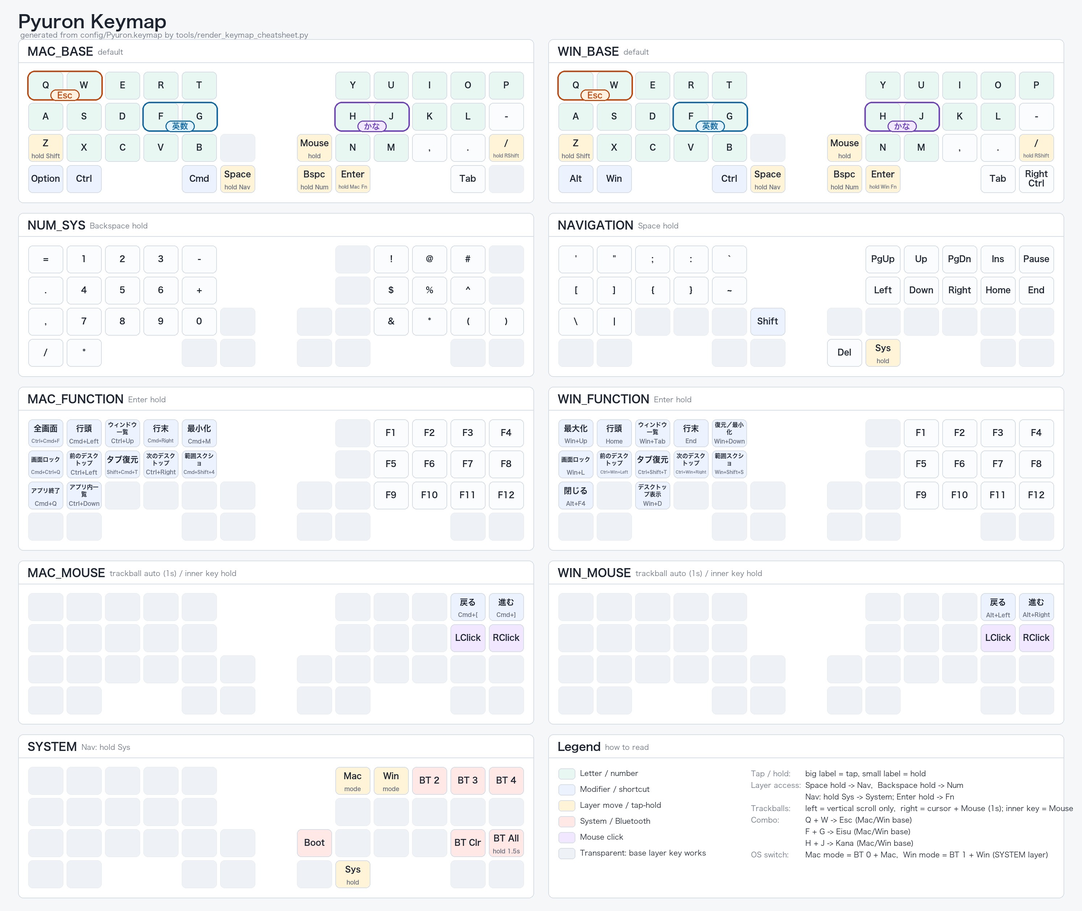
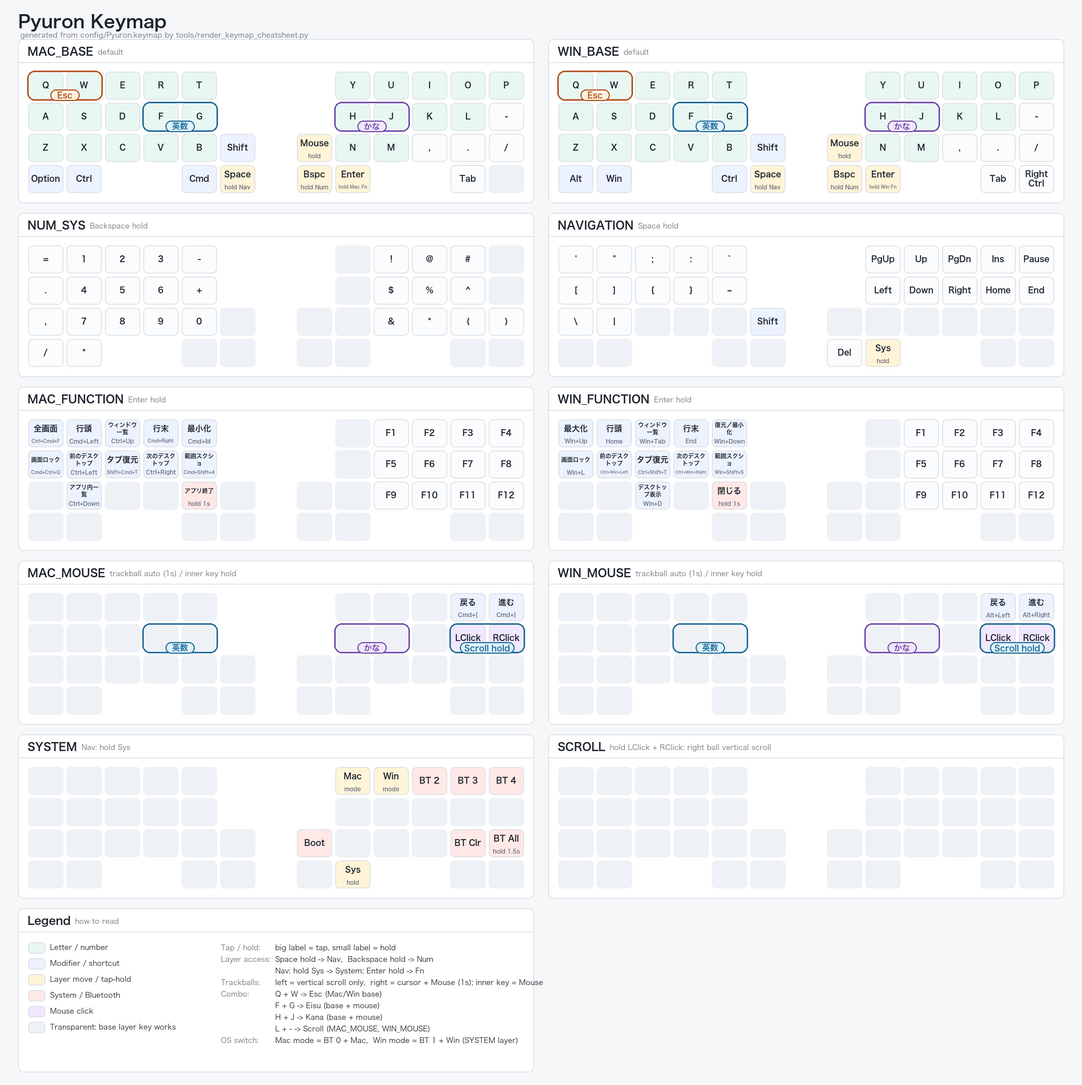
feat: stabilize mouse holds and add click-combo scrolling

diff --git a/docs/keymap-cheatsheet.html b/docs/keymap-cheatsheet.html
@@ -430,8 +430,8 @@
       <h1>Pyuron Keymap</h1>
       <div class="meta">
         <span class="pill">40 keys</span>
-        <span class="pill">9 layers</span>
-        <span class="pill">combo Q + W -> Esc (MAC_BASE, WIN_BASE), F + G -> Eisu (MAC_BASE, WIN_BASE), H + J -> Kana (MAC_BASE, WIN_BASE)</span>
+        <span class="pill">10 layers</span>
+        <span class="pill">combo Q + W -> Esc (MAC_BASE, WIN_BASE), F + G -> Eisu (base + mouse), H + J -> Kana (base + mouse), L + - -> Scroll (MAC_MOUSE, WIN_MOUSE)</span>
       </div>
     </header>
 
@@ -467,7 +467,7 @@
     // Do not hand-edit positions/layers below; re-run the script instead.
     const positions = [{"row": 0, "col": 0, "x": 0, "y": 0}, {"row": 0, "col": 1, "x": 1, "y": 0}, {"row": 0, "col": 2, "x": 2, "y": 0}, {"row": 0, "col": 3, "x": 3, "y": 0}, {"row": 0, "col": 4, "x": 4, "y": 0}, {"row": 0, "col": 5, "x": 8, "y": 0}, {"row": 0, "col": 6, "x": 9, "y": 0}, {"row": 0, "col": 7, "x": 10, "y": 0}, {"row": 0, "col": 8, "x": 11, "y": 0}, {"row": 0, "col": 9, "x": 12, "y": 0}, {"row": 1, "col": 0, "x": 0, "y": 1}, {"row": 1, "col": 1, "x": 1, "y": 1}, {"row": 1, "col": 2, "x": 2, "y": 1}, {"row": 1, "col": 3, "x": 3, "y": 1}, {"row": 1, "col": 4, "x": 4, "y": 1}, {"row": 1, "col": 5, "x": 8, "y": 1}, {"row": 1, "col": 6, "x": 9, "y": 1}, {"row": 1, "col": 7, "x": 10, "y": 1}, {"row": 1, "col": 8, "x": 11, "y": 1}, {"row": 1, "col": 9, "x": 12, "y": 1}, {"row": 2, "col": 0, "x": 0, "y": 2}, {"row": 2, "col": 1, "x": 1, "y": 2}, {"row": 2, "col": 2, "x": 2, "y": 2}, {"row": 2, "col": 3, "x": 3, "y": 2}, {"row": 2, "col": 4, "x": 4, "y": 2}, {"row": 2, "col": 5, "x": 5, "y": 2}, {"row": 2, "col": 6, "x": 7, "y": 2}, {"row": 2, "col": 7, "x": 8, "y": 2}, {"row": 2, "col": 8, "x": 9, "y": 2}, {"row": 2, "col": 9, "x": 10, "y": 2}, {"row": 3, "col": 0, "x": 11, "y": 2}, {"row": 3, "col": 1, "x": 12, "y": 2}, {"row": 3, "col": 2, "x": 0, "y": 3}, {"row": 3, "col": 3, "x": 1, "y": 3}, {"row": 3, "col": 4, "x": 4, "y": 3}, {"row": 3, "col": 5, "x": 5, "y": 3}, {"row": 3, "col": 6, "x": 7, "y": 3}, {"row": 3, "col": 7, "x": 8, "y": 3}, {"row": 3, "col": 8, "x": 11, "y": 3}, {"row": 3, "col": 9, "x": 12, "y": 3}];
 
-    const layers = [{"name": "MAC_BASE", "group": "mac", "note": "default", "keys": [["Q", "", "letter"], ["W", "", "letter"], ["E", "", "letter"], ["R", "", "letter"], ["T", "", "letter"], ["Y", "", "letter"], ["U", "", "letter"], ["I", "", "letter"], ["O", "", "letter"], ["P", "", "letter"], ["A", "", "letter"], ["S", "", "letter"], ["D", "", "letter"], ["F", "", "letter"], ["G", "", "letter"], ["H", "", "letter"], ["J", "", "letter"], ["K", "", "letter"], ["L", "", "letter"], ["-", "", ""], ["Z", "hold Shift", "layer"], ["X", "", "letter"], ["C", "", "letter"], ["V", "", "letter"], ["B", "", "letter"], ["trns", "", "transparent"], ["Mouse", "hold", "layer"], ["N", "", "letter"], ["M", "", "letter"], [",", "", ""], [".", "", ""], ["/", "hold RShift", "layer"], ["Option", "", "mod"], ["Ctrl", "", "mod"], ["Cmd", "", "mod"], ["Space", "hold Nav", "layer"], ["Bspc", "hold Num", "layer"], ["Enter", "hold Mac Fn", "layer"], ["Tab", "", ""], ["trns", "", "transparent"]]}, {"name": "WIN_BASE", "group": "win", "note": "default", "keys": [["Q", "", "letter"], ["W", "", "letter"], ["E", "", "letter"], ["R", "", "letter"], ["T", "", "letter"], ["Y", "", "letter"], ["U", "", "letter"], ["I", "", "letter"], ["O", "", "letter"], ["P", "", "letter"], ["A", "", "letter"], ["S", "", "letter"], ["D", "", "letter"], ["F", "", "letter"], ["G", "", "letter"], ["H", "", "letter"], ["J", "", "letter"], ["K", "", "letter"], ["L", "", "letter"], ["-", "", ""], ["Z", "hold Shift", "layer"], ["X", "", "letter"], ["C", "", "letter"], ["V", "", "letter"], ["B", "", "letter"], ["trns", "", "transparent"], ["Mouse", "hold", "layer"], ["N", "", "letter"], ["M", "", "letter"], [",", "", ""], [".", "", ""], ["/", "hold RShift", "layer"], ["Alt", "", "mod"], ["Win", "", "mod"], ["Ctrl", "", "mod"], ["Space", "hold Nav", "layer"], ["Bspc", "hold Num", "layer"], ["Enter", "hold Win Fn", "layer"], ["Tab", "", ""], ["Right Ctrl", "", ""]]}, {"name": "NUM_SYS", "group": "utility", "note": "Backspace hold", "keys": [["=", "", ""], ["1", "", ""], ["2", "", ""], ["3", "", ""], ["-", "", ""], ["trns", "", "transparent"], ["!", "", ""], ["@", "", ""], ["#", "", ""], ["trns", "", "transparent"], [".", "", ""], ["4", "", ""], ["5", "", ""], ["6", "", ""], ["+", "", ""], ["trns", "", "transparent"], ["$", "", ""], ["%", "", ""], ["^", "", ""], ["trns", "", "transparent"], [",", "", ""], ["7", "", ""], ["8", "", ""], ["9", "", ""], ["0", "", ""], ["trns", "", "transparent"], ["trns", "", "transparent"], ["trns", "", "transparent"], ["&", "", ""], ["*", "", ""], ["(", "", ""], [")", "", ""], ["/", "", ""], ["*", "", ""], ["trns", "", "transparent"], ["trns", "", "transparent"], ["trns", "", "transparent"], ["trns", "", "transparent"], ["trns", "", "transparent"], ["trns", "", "transparent"]]}, {"name": "NAVIGATION", "group": "utility", "note": "Space hold", "keys": [["'", "", ""], ["\"", "", ""], [";", "", ""], [":", "", ""], ["`", "", ""], ["PgUp", "", ""], ["Up", "", ""], ["PgDn", "", ""], ["Ins", "", ""], ["Pause", "", ""], ["[", "", ""], ["]", "", ""], ["{", "", ""], ["}", "", ""], ["~", "", ""], ["Left", "", ""], ["Down", "", ""], ["Right", "", ""], ["Home", "", ""], ["End", "", ""], ["\\", "", ""], ["|", "", ""], ["trns", "", "transparent"], ["trns", "", "transparent"], ["trns", "", "transparent"], ["Shift", "", "mod"], ["trns", "", "transparent"], ["trns", "", "transparent"], ["trns", "", "transparent"], ["trns", "", "transparent"], ["trns", "", "transparent"], ["trns", "", "transparent"], ["trns", "", "transparent"], ["trns", "", "transparent"], ["trns", "", "transparent"], ["trns", "", "transparent"], ["Del", "", ""], ["Sys", "hold", "layer"], ["trns", "", "transparent"], ["trns", "", "transparent"]]}, {"name": "MAC_FUNCTION", "group": "mac", "note": "Enter hold", "keys": [["全画面", "Ctrl+Cmd+F", "mod"], ["行頭", "Cmd+Left", "mod"], ["ウィンドウ一覧", "Ctrl+Up", "mod"], ["行末", "Cmd+Right", "mod"], ["最小化", "Cmd+M", "mod"], ["trns", "", "transparent"], ["F1", "", ""], ["F2", "", ""], ["F3", "", ""], ["F4", "", ""], ["画面ロック", "Cmd+Ctrl+Q", "mod"], ["前のデスクトップ", "Ctrl+Left", "mod"], ["タブ復元", "Shift+Cmd+T", "mod"], ["次のデスクトップ", "Ctrl+Right", "mod"], ["範囲スクショ", "Cmd+Shift+4", "mod"], ["trns", "", "transparent"], ["F5", "", ""], ["F6", "", ""], ["F7", "", ""], ["F8", "", ""], ["アプリ終了", "Cmd+Q", "mod"], ["アプリ内一覧", "Ctrl+Down", "mod"], ["trns", "", "transparent"], ["trns", "", "transparent"], ["trns", "", "transparent"], ["trns", "", "transparent"], ["trns", "", "transparent"], ["trns", "", "transparent"], ["F9", "", ""], ["F10", "", ""], ["F11", "", ""], ["F12", "", ""], ["trns", "", "transparent"], ["trns", "", "transparent"], ["trns", "", "transparent"], ["trns", "", "transparent"], ["trns", "", "transparent"], ["trns", "", "transparent"], ["trns", "", "transparent"], ["trns", "", "transparent"]]}, {"name": "WIN_FUNCTION", "group": "win", "note": "Enter hold", "keys": [["最大化", "Win+Up", "mod"], ["行頭", "Home", "mod"], ["ウィンドウ一覧", "Win+Tab", "mod"], ["行末", "End", "mod"], ["復元／最小化", "Win+Down", "mod"], ["trns", "", "transparent"], ["F1", "", ""], ["F2", "", ""], ["F3", "", ""], ["F4", "", ""], ["画面ロック", "Win+L", "mod"], ["前のデスクトップ", "Ctrl+Win+Left", "mod"], ["タブ復元", "Ctrl+Shift+T", "mod"], ["次のデスクトップ", "Ctrl+Win+Right", "mod"], ["範囲スクショ", "Win+Shift+S", "mod"], ["trns", "", "transparent"], ["F5", "", ""], ["F6", "", ""], ["F7", "", ""], ["F8", "", ""], ["閉じる", "Alt+F4", "mod"], ["trns", "", "transparent"], ["デスクトップ表示", "Win+D", "mod"], ["trns", "", "transparent"], ["trns", "", "transparent"], ["trns", "", "transparent"], ["trns", "", "transparent"], ["trns", "", "transparent"], ["F9", "", ""], ["F10", "", ""], ["F11", "", ""], ["F12", "", ""], ["trns", "", "transparent"], ["trns", "", "transparent"], ["trns", "", "transparent"], ["trns", "", "transparent"], ["trns", "", "transparent"], ["trns", "", "transparent"], ["trns", "", "transparent"], ["trns", "", "transparent"]]}, {"name": "SYSTEM", "group": "utility", "note": "Nav: hold Sys", "keys": [["trns", "", "transparent"], ["trns", "", "transparent"], ["trns", "", "transparent"], ["trns", "", "transparent"], ["trns", "", "transparent"], ["Mac", "mode", "layer"], ["Win", "mode", "layer"], ["BT 2", "", "system"], ["BT 3", "", "system"], ["BT 4", "", "system"], ["trns", "", "transparent"], ["trns", "", "transparent"], ["trns", "", "transparent"], ["trns", "", "transparent"], ["trns", "", "transparent"], ["trns", "", "transparent"], ["trns", "", "transparent"], ["trns", "", "transparent"], ["trns", "", "transparent"], ["trns", "", "transparent"], ["trns", "", "transparent"], ["trns", "", "transparent"], ["trns", "", "transparent"], ["trns", "", "transparent"], ["trns", "", "transparent"], ["trns", "", "transparent"], ["Boot", "", "system"], ["trns", "", "transparent"], ["trns", "", "transparent"], ["trns", "", "transparent"], ["BT Clr", "", "system"], ["BT All", "hold 1.5s", "system"], ["trns", "", "transparent"], ["trns", "", "transparent"], ["trns", "", "transparent"], ["trns", "", "transparent"], ["trns", "", "transparent"], ["Sys", "hold", "layer"], ["trns", "", "transparent"], ["trns", "", "transparent"]]}, {"name": "MAC_MOUSE", "group": "mac", "note": "trackball auto (1s) / inner key hold", "keys": [["trns", "", "transparent"], ["trns", "", "transparent"], ["trns", "", "transparent"], ["trns", "", "transparent"], ["trns", "", "transparent"], ["trns", "", "transparent"], ["trns", "", "transparent"], ["trns", "", "transparent"], ["戻る", "Cmd+[", "mod"], ["進む", "Cmd+]", "mod"], ["trns", "", "transparent"], ["trns", "", "transparent"], ["trns", "", "transparent"], ["trns", "", "transparent"], ["trns", "", "transparent"], ["trns", "", "transparent"], ["trns", "", "transparent"], ["trns", "", "transparent"], ["LClick", "", "mouse"], ["RClick", "", "mouse"], ["trns", "", "transparent"], ["trns", "", "transparent"], ["trns", "", "transparent"], ["trns", "", "transparent"], ["trns", "", "transparent"], ["trns", "", "transparent"], ["trns", "", "transparent"], ["trns", "", "transparent"], ["trns", "", "transparent"], ["trns", "", "transparent"], ["trns", "", "transparent"], ["trns", "", "transparent"], ["trns", "", "transparent"], ["trns", "", "transparent"], ["trns", "", "transparent"], ["trns", "", "transparent"], ["trns", "", "transparent"], ["trns", "", "transparent"], ["trns", "", "transparent"], ["trns", "", "transparent"]]}, {"name": "WIN_MOUSE", "group": "win", "note": "trackball auto (1s) / inner key hold", "keys": [["trns", "", "transparent"], ["trns", "", "transparent"], ["trns", "", "transparent"], ["trns", "", "transparent"], ["trns", "", "transparent"], ["trns", "", "transparent"], ["trns", "", "transparent"], ["trns", "", "transparent"], ["戻る", "Alt+Left", "mod"], ["進む", "Alt+Right", "mod"], ["trns", "", "transparent"], ["trns", "", "transparent"], ["trns", "", "transparent"], ["trns", "", "transparent"], ["trns", "", "transparent"], ["trns", "", "transparent"], ["trns", "", "transparent"], ["trns", "", "transparent"], ["LClick", "", "mouse"], ["RClick", "", "mouse"], ["trns", "", "transparent"], ["trns", "", "transparent"], ["trns", "", "transparent"], ["trns", "", "transparent"], ["trns", "", "transparent"], ["trns", "", "transparent"], ["trns", "", "transparent"], ["trns", "", "transparent"], ["trns", "", "transparent"], ["trns", "", "transparent"], ["trns", "", "transparent"], ["trns", "", "transparent"], ["trns", "", "transparent"], ["trns", "", "transparent"], ["trns", "", "transparent"], ["trns", "", "transparent"], ["trns", "", "transparent"], ["trns", "", "transparent"], ["trns", "", "transparent"], ["trns", "", "transparent"]]}];
+    const layers = [{"name": "MAC_BASE", "group": "mac", "note": "default", "keys": [["Q", "", "letter"], ["W", "", "letter"], ["E", "", "letter"], ["R", "", "letter"], ["T", "", "letter"], ["Y", "", "letter"], ["U", "", "letter"], ["I", "", "letter"], ["O", "", "letter"], ["P", "", "letter"], ["A", "", "letter"], ["S", "", "letter"], ["D", "", "letter"], ["F", "", "letter"], ["G", "", "letter"], ["H", "", "letter"], ["J", "", "letter"], ["K", "", "letter"], ["L", "", "letter"], ["-", "", ""], ["Z", "", "letter"], ["X", "", "letter"], ["C", "", "letter"], ["V", "", "letter"], ["B", "", "letter"], ["Shift", "", "mod"], ["Mouse", "hold", "layer"], ["N", "", "letter"], ["M", "", "letter"], [",", "", ""], [".", "", ""], ["/", "", ""], ["Option", "", "mod"], ["Ctrl", "", "mod"], ["Cmd", "", "mod"], ["Space", "hold Nav", "layer"], ["Bspc", "hold Num", "layer"], ["Enter", "hold Mac Fn", "layer"], ["Tab", "", ""], ["trns", "", "transparent"]]}, {"name": "WIN_BASE", "group": "win", "note": "default", "keys": [["Q", "", "letter"], ["W", "", "letter"], ["E", "", "letter"], ["R", "", "letter"], ["T", "", "letter"], ["Y", "", "letter"], ["U", "", "letter"], ["I", "", "letter"], ["O", "", "letter"], ["P", "", "letter"], ["A", "", "letter"], ["S", "", "letter"], ["D", "", "letter"], ["F", "", "letter"], ["G", "", "letter"], ["H", "", "letter"], ["J", "", "letter"], ["K", "", "letter"], ["L", "", "letter"], ["-", "", ""], ["Z", "", "letter"], ["X", "", "letter"], ["C", "", "letter"], ["V", "", "letter"], ["B", "", "letter"], ["Shift", "", "mod"], ["Mouse", "hold", "layer"], ["N", "", "letter"], ["M", "", "letter"], [",", "", ""], [".", "", ""], ["/", "", ""], ["Alt", "", "mod"], ["Win", "", "mod"], ["Ctrl", "", "mod"], ["Space", "hold Nav", "layer"], ["Bspc", "hold Num", "layer"], ["Enter", "hold Win Fn", "layer"], ["Tab", "", ""], ["Right Ctrl", "", ""]]}, {"name": "MAC_MOUSE", "group": "mac", "note": "trackball auto (1s) / inner key hold", "keys": [["trns", "", "transparent"], ["trns", "", "transparent"], ["trns", "", "transparent"], ["trns", "", "transparent"], ["trns", "", "transparent"], ["trns", "", "transparent"], ["trns", "", "transparent"], ["trns", "", "transparent"], ["戻る", "Cmd+[", "mod"], ["進む", "Cmd+]", "mod"], ["trns", "", "transparent"], ["trns", "", "transparent"], ["trns", "", "transparent"], ["trns", "", "transparent"], ["trns", "", "transparent"], ["trns", "", "transparent"], ["trns", "", "transparent"], ["trns", "", "transparent"], ["LClick", "", "mouse"], ["RClick", "", "mouse"], ["trns", "", "transparent"], ["trns", "", "transparent"], ["trns", "", "transparent"], ["trns", "", "transparent"], ["trns", "", "transparent"], ["trns", "", "transparent"], ["trns", "", "transparent"], ["trns", "", "transparent"], ["trns", "", "transparent"], ["trns", "", "transparent"], ["trns", "", "transparent"], ["trns", "", "transparent"], ["trns", "", "transparent"], ["trns", "", "transparent"], ["trns", "", "transparent"], ["trns", "", "transparent"], ["trns", "", "transparent"], ["trns", "", "transparent"], ["trns", "", "transparent"], ["trns", "", "transparent"]]}, {"name": "WIN_MOUSE", "group": "win", "note": "trackball auto (1s) / inner key hold", "keys": [["trns", "", "transparent"], ["trns", "", "transparent"], ["trns", "", "transparent"], ["trns", "", "transparent"], ["trns", "", "transparent"], ["trns", "", "transparent"], ["trns", "", "transparent"], ["trns", "", "transparent"], ["戻る", "Alt+Left", "mod"], ["進む", "Alt+Right", "mod"], ["trns", "", "transparent"], ["trns", "", "transparent"], ["trns", "", "transparent"], ["trns", "", "transparent"], ["trns", "", "transparent"], ["trns", "", "transparent"], ["trns", "", "transparent"], ["trns", "", "transparent"], ["LClick", "", "mouse"], ["RClick", "", "mouse"], ["trns", "", "transparent"], ["trns", "", "transparent"], ["trns", "", "transparent"], ["trns", "", "transparent"], ["trns", "", "transparent"], ["trns", "", "transparent"], ["trns", "", "transparent"], ["trns", "", "transparent"], ["trns", "", "transparent"], ["trns", "", "transparent"], ["trns", "", "transparent"], ["trns", "", "transparent"], ["trns", "", "transparent"], ["trns", "", "transparent"], ["trns", "", "transparent"], ["trns", "", "transparent"], ["trns", "", "transparent"], ["trns", "", "transparent"], ["trns", "", "transparent"], ["trns", "", "transparent"]]}, {"name": "NUM_SYS", "group": "utility", "note": "Backspace hold", "keys": [["=", "", ""], ["1", "", ""], ["2", "", ""], ["3", "", ""], ["-", "", ""], ["trns", "", "transparent"], ["!", "", ""], ["@", "", ""], ["#", "", ""], ["trns", "", "transparent"], [".", "", ""], ["4", "", ""], ["5", "", ""], ["6", "", ""], ["+", "", ""], ["trns", "", "transparent"], ["$", "", ""], ["%", "", ""], ["^", "", ""], ["trns", "", "transparent"], [",", "", ""], ["7", "", ""], ["8", "", ""], ["9", "", ""], ["0", "", ""], ["trns", "", "transparent"], ["trns", "", "transparent"], ["trns", "", "transparent"], ["&", "", ""], ["*", "", ""], ["(", "", ""], [")", "", ""], ["/", "", ""], ["*", "", ""], ["trns", "", "transparent"], ["trns", "", "transparent"], ["trns", "", "transparent"], ["trns", "", "transparent"], ["trns", "", "transparent"], ["trns", "", "transparent"]]}, {"name": "NAVIGATION", "group": "utility", "note": "Space hold", "keys": [["'", "", ""], ["\"", "", ""], [";", "", ""], [":", "", ""], ["`", "", ""], ["PgUp", "", ""], ["Up", "", ""], ["PgDn", "", ""], ["Ins", "", ""], ["Pause", "", ""], ["[", "", ""], ["]", "", ""], ["{", "", ""], ["}", "", ""], ["~", "", ""], ["Left", "", ""], ["Down", "", ""], ["Right", "", ""], ["Home", "", ""], ["End", "", ""], ["\\", "", ""], ["|", "", ""], ["trns", "", "transparent"], ["trns", "", "transparent"], ["trns", "", "transparent"], ["Shift", "", "mod"], ["trns", "", "transparent"], ["trns", "", "transparent"], ["trns", "", "transparent"], ["trns", "", "transparent"], ["trns", "", "transparent"], ["trns", "", "transparent"], ["trns", "", "transparent"], ["trns", "", "transparent"], ["trns", "", "transparent"], ["trns", "", "transparent"], ["Del", "", ""], ["Sys", "hold", "layer"], ["trns", "", "transparent"], ["trns", "", "transparent"]]}, {"name": "MAC_FUNCTION", "group": "mac", "note": "Enter hold", "keys": [["全画面", "Ctrl+Cmd+F", "mod"], ["行頭", "Cmd+Left", "mod"], ["ウィンドウ一覧", "Ctrl+Up", "mod"], ["行末", "Cmd+Right", "mod"], ["最小化", "Cmd+M", "mod"], ["trns", "", "transparent"], ["F1", "", ""], ["F2", "", ""], ["F3", "", ""], ["F4", "", ""], ["画面ロック", "Cmd+Ctrl+Q", "mod"], ["前のデスクトップ", "Ctrl+Left", "mod"], ["タブ復元", "Shift+Cmd+T", "mod"], ["次のデスクトップ", "Ctrl+Right", "mod"], ["範囲スクショ", "Cmd+Shift+4", "mod"], ["trns", "", "transparent"], ["F5", "", ""], ["F6", "", ""], ["F7", "", ""], ["F8", "", ""], ["trns", "", "transparent"], ["アプリ内一覧", "Ctrl+Down", "mod"], ["trns", "", "transparent"], ["trns", "", "transparent"], ["アプリ終了", "hold 1s", "system"], ["trns", "", "transparent"], ["trns", "", "transparent"], ["trns", "", "transparent"], ["F9", "", ""], ["F10", "", ""], ["F11", "", ""], ["F12", "", ""], ["trns", "", "transparent"], ["trns", "", "transparent"], ["trns", "", "transparent"], ["trns", "", "transparent"], ["trns", "", "transparent"], ["trns", "", "transparent"], ["trns", "", "transparent"], ["trns", "", "transparent"]]}, {"name": "WIN_FUNCTION", "group": "win", "note": "Enter hold", "keys": [["最大化", "Win+Up", "mod"], ["行頭", "Home", "mod"], ["ウィンドウ一覧", "Win+Tab", "mod"], ["行末", "End", "mod"], ["復元／最小化", "Win+Down", "mod"], ["trns", "", "transparent"], ["F1", "", ""], ["F2", "", ""], ["F3", "", ""], ["F4", "", ""], ["画面ロック", "Win+L", "mod"], ["前のデスクトップ", "Ctrl+Win+Left", "mod"], ["タブ復元", "Ctrl+Shift+T", "mod"], ["次のデスクトップ", "Ctrl+Win+Right", "mod"], ["範囲スクショ", "Win+Shift+S", "mod"], ["trns", "", "transparent"], ["F5", "", ""], ["F6", "", ""], ["F7", "", ""], ["F8", "", ""], ["trns", "", "transparent"], ["trns", "", "transparent"], ["デスクトップ表示", "Win+D", "mod"], ["trns", "", "transparent"], ["閉じる", "hold 1s", "system"], ["trns", "", "transparent"], ["trns", "", "transparent"], ["trns", "", "transparent"], ["F9", "", ""], ["F10", "", ""], ["F11", "", ""], ["F12", "", ""], ["trns", "", "transparent"], ["trns", "", "transparent"], ["trns", "", "transparent"], ["trns", "", "transparent"], ["trns", "", "transparent"], ["trns", "", "transparent"], ["trns", "", "transparent"], ["trns", "", "transparent"]]}, {"name": "SYSTEM", "group": "utility", "note": "Nav: hold Sys", "keys": [["trns", "", "transparent"], ["trns", "", "transparent"], ["trns", "", "transparent"], ["trns", "", "transparent"], ["trns", "", "transparent"], ["Mac", "mode", "layer"], ["Win", "mode", "layer"], ["BT 2", "", "system"], ["BT 3", "", "system"], ["BT 4", "", "system"], ["trns", "", "transparent"], ["trns", "", "transparent"], ["trns", "", "transparent"], ["trns", "", "transparent"], ["trns", "", "transparent"], ["trns", "", "transparent"], ["trns", "", "transparent"], ["trns", "", "transparent"], ["trns", "", "transparent"], ["trns", "", "transparent"], ["trns", "", "transparent"], ["trns", "", "transparent"], ["trns", "", "transparent"], ["trns", "", "transparent"], ["trns", "", "transparent"], ["trns", "", "transparent"], ["Boot", "", "system"], ["trns", "", "transparent"], ["trns", "", "transparent"], ["trns", "", "transparent"], ["BT Clr", "", "system"], ["BT All", "hold 1.5s", "system"], ["trns", "", "transparent"], ["trns", "", "transparent"], ["trns", "", "transparent"], ["trns", "", "transparent"], ["trns", "", "transparent"], ["Sys", "hold", "layer"], ["trns", "", "transparent"], ["trns", "", "transparent"]]}, {"name": "SCROLL", "group": "utility", "note": "hold LClick + RClick: right ball vertical scroll", "keys": [["trns", "", "transparent"], ["trns", "", "transparent"], ["trns", "", "transparent"], ["trns", "", "transparent"], ["trns", "", "transparent"], ["trns", "", "transparent"], ["trns", "", "transparent"], ["trns", "", "transparent"], ["trns", "", "transparent"], ["trns", "", "transparent"], ["trns", "", "transparent"], ["trns", "", "transparent"], ["trns", "", "transparent"], ["trns", "", "transparent"], ["trns", "", "transparent"], ["trns", "", "transparent"], ["trns", "", "transparent"], ["trns", "", "transparent"], ["trns", "", "transparent"], ["trns", "", "transparent"], ["trns", "", "transparent"], ["trns", "", "transparent"], ["trns", "", "transparent"], ["trns", "", "transparent"], ["trns", "", "transparent"], ["trns", "", "transparent"], ["trns", "", "transparent"], ["trns", "", "transparent"], ["trns", "", "transparent"], ["trns", "", "transparent"], ["trns", "", "transparent"], ["trns", "", "transparent"], ["trns", "", "transparent"], ["trns", "", "transparent"], ["trns", "", "transparent"], ["trns", "", "transparent"], ["trns", "", "transparent"], ["trns", "", "transparent"], ["trns", "", "transparent"], ["trns", "", "transparent"]]}];
 
     const app = document.querySelector("#app");
     const layersContainer = document.querySelector("#layers");

diff --git a/tests/test_jis_symbols.py b/tests/test_jis_symbols.py
@@ -16,18 +16,18 @@ class SharedUsLayout(unittest.TestCase):
         cls.layers = {layer.name: layer.bindings for layer in parse_layers(cls.source)}
 
     def test_layer_routes(self):
-        self.assertEqual(list(self.layers), ['MAC_BASE', 'WIN_BASE', 'NUM_SYS', 'NAVIGATION', 'MAC_FUNCTION', 'WIN_FUNCTION', 'SYSTEM', 'MAC_MOUSE', 'WIN_MOUSE'])
+        self.assertEqual(list(self.layers), ['MAC_BASE', 'WIN_BASE', 'MAC_MOUSE', 'WIN_MOUSE', 'NUM_SYS', 'NAVIGATION', 'MAC_FUNCTION', 'WIN_FUNCTION', 'SYSTEM', 'SCROLL'])
         for name in ('MAC_BASE', 'WIN_BASE'):
-            for position, binding in {25: '&none', 26: '&mo 7', 35: '&lt 3 SPACE', 36: '&lt 2 BSPC', 37: ('&lt 4 ENTER' if name == 'MAC_BASE' else '&lt 5 ENTER')}.items():
+            for position, binding in {25: '&kp LEFT_SHIFT', 26: '&mo_mouse MOUSE', 35: '&lt 5 SPACE', 36: '&lt 4 BSPC', 37: ('&lt 6 ENTER' if name == 'MAC_BASE' else '&lt 7 ENTER')}.items():
                 self.assertEqual(self.layers[name][position], binding)
         self.assertIn('<&to 1>', self.source)
-        self.assertIn('#define MOUSE 7', self.source)
-        self.assertIn('<&zip_temp_layer 7 1000>', (ROOT / 'config/boards/shields/Pyuron/Pyuron.dtsi').read_text())
+        self.assertIn('#define MOUSE 2', self.source)
+        self.assertIn('<&zip_temp_layer 2 1000>', (ROOT / 'config/boards/shields/Pyuron/Pyuron.dtsi').read_text())
 
     def test_combos_follow_base_layers(self):
-        for name, positions, key in [('esc', '0 1', 'ESC'), ('eisu', '13 14', 'LANG2'), ('kana', '15 16', 'LANG1')]:
+        for name, positions, key in [('esc', '0 1', '&kp ESC'), ('eisu', '13 14', '&eisu_input'), ('kana', '15 16', '&kana_input')]:
             body = re.search(r'combo_' + name + r' \{(.*?)\};', self.source, re.S)[1]
-            for expected in [f'key-positions = <{positions}>;', f'bindings = <&kp {key}>;', 'layers = <0 1>;', 'timeout-ms = <50>;']:
+            for expected in [f'key-positions = <{positions}>;', f'bindings = <{key}>;', ('layers = <0 1>;' if name == 'esc' else 'layers = <0 1 2 3>;'), 'timeout-ms = <50>;']:
                 self.assertIn(expected, body)
 
     def test_number_and_symbol_correspondence(self):
@@ -46,7 +46,7 @@ class SharedUsLayout(unittest.TestCase):
             self.assertEqual(self.layers['NAVIGATION'][position], '&kp '+key)
         self.assertEqual(self.layers['NAVIGATION'][25], '&kp LEFT_SHIFT')
         for name in ('NAVIGATION','SYSTEM'):
-            self.assertEqual(self.layers[name][37], '&mo 6')
+            self.assertEqual(self.layers[name][37], '&mo 8')
 
     def test_navigation_symbols(self):
         expected = {0:'SINGLE_QUOTE',1:'LS(SINGLE_QUOTE)',2:'SEMICOLON',3:'LS(SEMICOLON)',4:'GRAVE',10:'LBKT',11:'RBKT',12:'LS(LBKT)',13:'LS(RBKT)',14:'LS(GRAVE)',20:'BACKSLASH',21:'LS(BACKSLASH)'}
@@ -77,13 +77,15 @@ class SharedUsLayout(unittest.TestCase):
 
     def test_function_shortcuts(self):
         expected = {
-            'MAC_FUNCTION': {0:'LC(LG(F))',1:'LG(LEFT_ARROW)',2:'LC(UP_ARROW)',3:'LG(RIGHT_ARROW)',4:'LG(M)',10:'LG(LC(Q))',11:'LC(LEFT)',12:'LS(LG(T))',13:'LC(RIGHT)',14:'LG(LS(NUMBER_4))',20:'LG(Q)',21:'LC(DOWN_ARROW)'},
-            'WIN_FUNCTION': {0:'LG(UP)',1:'HOME',2:'LG(TAB)',3:'END',4:'LG(DOWN)',10:'LG(L)',11:'LC(LG(LEFT_ARROW))',12:'LC(LS(T))',13:'LC(LG(RIGHT_ARROW))',14:'LG(LS(S))',20:'LA(F4)',22:'LG(D)'},
+            'MAC_FUNCTION': {0:'LC(LG(F))',1:'LG(LEFT_ARROW)',2:'LC(UP_ARROW)',3:'LG(RIGHT_ARROW)',4:'LG(M)',10:'LG(LC(Q))',11:'LC(LEFT)',12:'LS(LG(T))',13:'LC(RIGHT)',14:'LG(LS(NUMBER_4))',21:'LC(DOWN_ARROW)'},
+            'WIN_FUNCTION': {0:'LG(UP)',1:'HOME',2:'LG(TAB)',3:'END',4:'LG(DOWN)',10:'LG(L)',11:'LC(LG(LEFT_ARROW))',12:'LC(LS(T))',13:'LC(LG(RIGHT_ARROW))',14:'LG(LS(S))',22:'LG(D)'},
         }
         left_positions = set(range(5)) | set(range(10,15)) | set(range(20,25))
         for name, shortcuts in expected.items():
             for position in left_positions:
                 binding = '&kp ' + shortcuts[position] if position in shortcuts else '&trans'
+                if position == 24:
+                    binding = '&exit_hold ' + ('LG(Q)' if name == 'MAC_FUNCTION' else 'LA(F4)') + ' 0'
                 self.assertEqual(self.layers[name][position], binding)
 
     def test_mouse_os_routes_and_positions(self):
@@ -91,9 +93,74 @@ class SharedUsLayout(unittest.TestCase):
             expected = {8:'&kp '+back,9:'&kp '+forward,18:'&mkp MB1',19:'&mkp MB2'}
             for position, binding in enumerate(self.layers[name]):
                 self.assertEqual(binding, expected.get(position, '&trans'))
-        self.assertRegex(self.source, r'if-layers = <1 7>;\s*then-layer = <8>;')
-        self.assertRegex(self.source, r'excluded-positions = <\s*8 9 18 19\s*>;')
+        self.assertRegex(self.source, r'if-layers = <1 2>;\s*then-layer = <3>;')
+        self.assertRegex(self.source, r'excluded-positions = <\s*8 9 18 19 25 26 32 33 34 39\s*>;')
         self.assertIn('require-prior-idle-ms = <200>;', self.source)
+
+    def test_dedicated_shift_and_guarded_exit(self):
+        for name in ('MAC_BASE', 'WIN_BASE'):
+            self.assertEqual(self.layers[name][20], '&kp Z')
+            self.assertEqual(self.layers[name][31], '&kp SLASH')
+            self.assertEqual(self.layers[name][25], '&kp LEFT_SHIFT')
+        for name in ('MAC_FUNCTION','WIN_FUNCTION'):
+            self.assertEqual(self.layers[name][20], '&trans')
+            self.assertEqual(self.layers[name][25], '&trans')
+        behavior = re.search(r'exit_hold:.*?\n        };', self.source, re.S)[0]
+        for expected in ['tapping-term-ms = <1000>;', 'flavor = "tap-preferred";', 'bindings = <&kp>, <&none>;']:
+            self.assertIn(expected, behavior)
+        from render_keymap_cheatsheet import label_for
+        self.assertEqual(label_for('&exit_hold LG(Q) 0','MAC_FUNCTION').hint, 'hold 1s')
+        self.assertEqual(label_for('&exit_hold LA(F4) 0','WIN_FUNCTION').primary, '閉じる')
+
+    def test_mouse_hold_lock_and_language_exit(self):
+        behavior = re.search(r'mo_mouse:.*?\n        };', self.source, re.S)[0]
+        self.assertIn('compatible = "zmk,behavior-momentary-layer";', behavior)
+        self.assertIn('locking;', behavior)
+        for name, key in [('eisu_input', 'LANG2'), ('kana_input', 'LANG1')]:
+            body = re.search(name + r':.*?\n        };', self.source, re.S)[0]
+            self.assertIn('<&macro_tap &kp ' + key + '>', body)
+            self.assertIn('<&macro_release &mo MOUSE>', body)
+            self.assertNotIn('&mo_mouse', body)
+            self.assertNotIn('&to ', body)
+            self.assertNotIn('&tog ', body)
+        from render_keymap_cheatsheet import label_for
+        self.assertEqual(label_for('&mo_mouse MOUSE','MAC_BASE').primary, 'Mouse')
+        self.assertEqual(label_for('&eisu_input','MAC_BASE').primary, 'Eisu')
+        self.assertEqual(label_for('&kana_input','WIN_BASE').primary, 'Kana')
+
+    def test_mouse_priority_cannot_enable_combos_over_utilities(self):
+        names = list(self.layers)
+        mouse_index = max(names.index('MAC_MOUSE'), names.index('WIN_MOUSE'))
+        for name in ('NUM_SYS','NAVIGATION','MAC_FUNCTION','WIN_FUNCTION','SYSTEM'):
+            self.assertGreater(names.index(name), mouse_index)
+        excluded = set(map(int, re.search(r'excluded-positions = <([^>]+)>;', self.source)[1].split()))
+        self.assertTrue({8,9,18,19,25,26,32,33,34,39} <= excluded)
+        self.assertTrue({13,14,15,16,20,31,35,36,37,38}.isdisjoint(excluded))
+
+    def test_scroll_combo_only_while_both_clicks_held(self):
+        body = re.search(r'combo_scroll \{(.*?)\};', self.source, re.S)
+        self.assertIsNotNone(body)
+        for expected in ('key-positions = <18 19>;', 'layers = <2 3>;',
+                         'bindings = <&mo 9>;', 'timeout-ms = <50>;'):
+            self.assertIn(expected, body[1])
+        self.assertNotIn('slow-release', body[1])
+        self.assertEqual(self.layers['SCROLL'], ['&trans'] * 40)
+
+    def test_right_scroll_replaces_cursor_and_blocks_horizontal(self):
+        source = (ROOT / 'config/boards/shields/Pyuron/Pyuron.dtsi').read_text()
+        listener = source.split('trackball_listener_R:')[1].split('default_transform:')[0]
+        override = re.search(r'scroll_mode \{(.*?)\};', listener, re.S)
+        self.assertIsNotNone(override)
+        body = override[1]
+        self.assertIn('layers = <9>;', body)
+        self.assertNotIn('process-next', body)
+        processors = ['<&zip_xy_transform (INPUT_TRANSFORM_XY_SWAP)>',
+                      '<&zip_xy_scaler 1 16>', '<&zip_xy_to_scroll_mapper>',
+                      '<&zip_scroll_transform (INPUT_TRANSFORM_X_INVERT | INPUT_TRANSFORM_Y_INVERT)>',
+                      '<&horizontal_scroll_blocker 0 1>', '<&zip_temp_layer 2 1000>']
+        offsets = [body.index(processor) for processor in processors]
+        self.assertEqual(offsets, sorted(offsets))
+        self.assertIn('<&zip_xy_scaler 3 4>', listener.split('scroll_mode')[0])
 
     def test_guarded_clear(self):
         self.assertEqual(self.layers['SYSTEM'][31], '&bt_clear_hold 0 0')
@@ -104,8 +171,8 @@ class SharedUsLayout(unittest.TestCase):
     def test_renderer_matches_layers(self):
         from render_keymap_cheatsheet import DOC_LAYER_ORDER, LAYER_NAMES, label_for
         self.assertEqual(DOC_LAYER_ORDER, list(self.layers))
-        self.assertEqual(LAYER_NAMES['2'], 'Num')
-        self.assertEqual(LAYER_NAMES['3'], 'Nav')
+        self.assertEqual(LAYER_NAMES['4'], 'Num')
+        self.assertEqual(LAYER_NAMES['5'], 'Nav')
         for number,symbol in enumerate(')!@#$%^&*('):
             self.assertEqual(label_for(f'&kp LS(N{number})','NUM_SYS').primary,symbol)
         self.assertEqual(label_for('&none','WIN_BASE').primary, '')

diff --git a/tools/render_keymap_cheatsheet.py b/tools/render_keymap_cheatsheet.py
@@ -137,8 +137,8 @@ SHORTCUT_LABELS: dict[str, dict[str, str]] = {
 }
 
 LAYER_NAMES = {
-    "0": "Mac", "1": "Win", "2": "Num", "3": "Nav",
-    "4": "Mac Fn", "5": "Win Fn", "6": "Sys", "7": "Mouse", "8": "Win Mouse",
+    "0": "Mac", "1": "Win", "2": "Mouse", "3": "Win Mouse",
+    "4": "Num", "5": "Nav", "6": "Mac Fn", "7": "Win Fn", "8": "Sys", "9": "Scroll",
 }
 
 LAYER_NOTES = {
@@ -146,6 +146,7 @@ LAYER_NOTES = {
     "NUM_SYS": "Backspace hold", "NAVIGATION": "Space hold",
     "MAC_FUNCTION": "Enter hold", "WIN_FUNCTION": "Enter hold",
     "SYSTEM": "Nav: hold Sys",
+    "SCROLL": "hold LClick + RClick: right ball vertical scroll",
     "MAC_MOUSE": "trackball auto (1s) / inner key hold",
     "WIN_MOUSE": "trackball auto (1s) / inner key hold",
 }
@@ -153,7 +154,7 @@ LAYER_NOTES = {
 LAYER_GROUP = {
     "MAC_BASE": "mac", "WIN_BASE": "win", "NUM_SYS": "utility",
     "NAVIGATION": "utility", "MAC_FUNCTION": "mac", "WIN_FUNCTION": "win",
-    "SYSTEM": "utility", "MAC_MOUSE": "mac", "WIN_MOUSE": "win",
+    "SYSTEM": "utility", "MAC_MOUSE": "mac", "WIN_MOUSE": "win", "SCROLL": "utility",
 }
 
 LAYER_DESCRIPTIONS = {
@@ -163,15 +164,16 @@ LAYER_DESCRIPTIONS = {
     "MAC_FUNCTION": "MacのEnter長押し。左にショートカット、右にF1〜F12。アプリ内一覧はApp Exposé",
     "WIN_FUNCTION": "WindowsのEnter長押し。左にショートカット、右にF1〜F12",
     "SYSTEM": "NAVのEnter位置を保持。Bluetooth・OS切替・Bootloader",
+    "SCROLL": "マウス層で左右クリックを同時に保持すると右ボールが縦スクロール。片方を離すと解除",
     "MAC_MOUSE": "右トラックボールで自動有効（1秒）。右内側キーでも開けます。O/Pで戻る/進む、L/−で左/右クリック",
     "WIN_MOUSE": "Windowsとマウス層が有効なとき自動適用。配置はMacと共通",
 }
 
 LAYER_GRID = [
     ["MAC_BASE", "WIN_BASE"], ["NUM_SYS", "NAVIGATION"],
-    ["MAC_FUNCTION", "WIN_FUNCTION"], ["MAC_MOUSE", "WIN_MOUSE"], ["SYSTEM", None],
+    ["MAC_FUNCTION", "WIN_FUNCTION"], ["MAC_MOUSE", "WIN_MOUSE"], ["SYSTEM", "SCROLL"], [None],
 ]
-DOC_LAYER_ORDER = ["MAC_BASE", "WIN_BASE", "NUM_SYS", "NAVIGATION", "MAC_FUNCTION", "WIN_FUNCTION", "SYSTEM", "MAC_MOUSE", "WIN_MOUSE"]
+DOC_LAYER_ORDER = ["MAC_BASE", "WIN_BASE", "MAC_MOUSE", "WIN_MOUSE", "NUM_SYS", "NAVIGATION", "MAC_FUNCTION", "WIN_FUNCTION", "SYSTEM", "SCROLL"]
 
 MARGIN = 50
 COLUMN_GAP = 40
@@ -260,7 +262,8 @@ def display_primary(label: "Label") -> str:
 def combo_description(combo_positions: list[int], target_binding: str, base_labels: list["Label"], scope: list[str]) -> str:
     key_names = [display_primary(base_labels[position]) for position in combo_positions]
     target = label_for(target_binding, scope[0] if scope else "MAC_BASE")
-    suffix = f" ({', '.join(scope)})" if scope else " (all layers)"
+    scope_text = "base + mouse" if set(scope) == {"MAC_BASE", "WIN_BASE", "MAC_MOUSE", "WIN_MOUSE"} else ", ".join(scope)
+    suffix = f" ({scope_text})" if scope else " (all layers)"
     return f"{' + '.join(key_names)} -> {display_primary(target)}{suffix}"
 
 
@@ -303,6 +306,12 @@ def label_for(binding: str, layer_name: str) -> Label:
         return Label("")
     behavior = parts[0]
 
+    if behavior in {"&eisu_input", "&kana_input"}:
+        return Label("Eisu" if behavior == "&eisu_input" else "Kana")
+    if behavior == "&mo_mouse":
+        return Label("Mouse", hint="hold", kind="layer")
+    if behavior == "&exit_hold":
+        return Label("アプリ終了" if layer_name.startswith("MAC") else "閉じる", hint="hold 1s", kind="system")
     if behavior == "&bt_clear_hold":
         return Label("BT All", hint="hold 1.5s", kind="system")
     if behavior == "&none":
@@ -543,9 +552,12 @@ def draw_layer(draw: ImageDraw.ImageDraw, x: int, y: int, name: str, labels: lis
 
 
 def draw_combo_overlays(draw: ImageDraw.ImageDraw, x: int, y: int, name: str, positions: list[dict[str, int]], combos: list[tuple[list[int], str, list[str]]]) -> None:
-    if name not in {"MAC_BASE", "WIN_BASE"}:
+    if name not in {"MAC_BASE", "WIN_BASE", "MAC_MOUSE", "WIN_MOUSE"}:
         return
     palette = {"&kp LANG2": ("#176aa1", "#e0f3ff", "英数"), "&kp LANG1": ("#7147b7", "#f1e8ff", "かな"), "&kp ESC": ("#bd4c14", "#fff0df", "Esc"), "&kp LGUI": ("#7147b7", "#f1e8ff", "Win"), "&kp RCTRL": ("#176aa1", "#e0f3ff", "右Ctrl")}
+    palette["&eisu_input"] = palette["&kp LANG2"]
+    palette["&kana_input"] = palette["&kp LANG1"]
+    palette["&mo 9"] = ("#176aa1", "#e0f3ff", "Scroll hold")
     for keys, target, scope in combos:
         if (scope and name not in scope) or target not in palette or len(keys) != 2:
             continue
@@ -688,7 +700,10 @@ def render_markdown(layers: dict[str, list[str]], positions: list[dict[str, int]
 - `Mac / mode` は Bluetooth 0 を選んで `MAC_BASE` へ移動します。
 - `Win / mode` は Bluetooth 1 を選んで `WIN_BASE` へ移動します。
 - 左トラックボールは縦スクロール専用です。横スクロールは出力しません。
-- 右トラックボールは常時カーソル移動用です。右トラックボール操作でマウスレイヤーが1秒間自動で有効になります。右内側キーからも開けます。Windowsでは戻る・進むがWindows用になります。
+- 右トラックボールは通常カーソル移動用です。右トラックボール操作でマウスレイヤーが1秒間自動で有効になります。右内側キーからも開けます。Windowsでは戻る・進むがWindows用になります。
+- マウス層で左右クリック（L＋−）を50ms以内に同時押しし、保持中は右ボールが縦スクロールになります。片方を離すとカーソル移動へ戻ります。単独クリックには最大50msの判定待ちが入ります。
+- 英数・かなコンボは入力切替後にオートマウス層を解除します。Mouseキー保持中は解除せず、離すと解除します。
+- NUM・NAV・FUNCTION・SYSTEMはマウス層より優先され、その間は英数・かなコンボを判定しません。
 {combo_lines}
 
 {layer_sections}

diff --git a/docs/keymap-cheatsheet.md b/docs/keymap-cheatsheet.md
@@ -17,13 +17,14 @@
 | --- | --- | --- |
 | 0 | `MAC_BASE` | Mac用の通常入力 |
 | 1 | `WIN_BASE` | Windows用の通常入力 |
-| 2 | `NUM_SYS` | Backspace長押し。左に数字・四則演算、右に対応するShift記号 |
-| 3 | `NAVIGATION` | Space長押し。左に記号、右に矢印・ページ移動・Delete。Enter位置を保持してSYSTEMへ |
-| 4 | `MAC_FUNCTION` | MacのEnter長押し。左にショートカット、右にF1〜F12。アプリ内一覧はApp Exposé |
-| 5 | `WIN_FUNCTION` | WindowsのEnter長押し。左にショートカット、右にF1〜F12 |
-| 6 | `SYSTEM` | NAVのEnter位置を保持。Bluetooth・OS切替・Bootloader |
-| 7 | `MAC_MOUSE` | 右トラックボールで自動有効（1秒）。右内側キーでも開けます。O/Pで戻る/進む、L/−で左/右クリック |
-| 8 | `WIN_MOUSE` | Windowsとマウス層が有効なとき自動適用。配置はMacと共通 |
+| 2 | `MAC_MOUSE` | 右トラックボールで自動有効（1秒）。右内側キーでも開けます。O/Pで戻る/進む、L/−で左/右クリック |
+| 3 | `WIN_MOUSE` | Windowsとマウス層が有効なとき自動適用。配置はMacと共通 |
+| 4 | `NUM_SYS` | Backspace長押し。左に数字・四則演算、右に対応するShift記号 |
+| 5 | `NAVIGATION` | Space長押し。左に記号、右に矢印・ページ移動・Delete。Enter位置を保持してSYSTEMへ |
+| 6 | `MAC_FUNCTION` | MacのEnter長押し。左にショートカット、右にF1〜F12。アプリ内一覧はApp Exposé |
+| 7 | `WIN_FUNCTION` | WindowsのEnter長押し。左にショートカット、右にF1〜F12 |
+| 8 | `SYSTEM` | NAVのEnter位置を保持。Bluetooth・OS切替・Bootloader |
+| 9 | `SCROLL` | マウス層で左右クリックを同時に保持すると右ボールが縦スクロール。片方を離すと解除 |
 
 ## 読み方
 
@@ -33,10 +34,14 @@
 - `Mac / mode` は Bluetooth 0 を選んで `MAC_BASE` へ移動します。
 - `Win / mode` は Bluetooth 1 を選んで `WIN_BASE` へ移動します。
 - 左トラックボールは縦スクロール専用です。横スクロールは出力しません。
-- 右トラックボールは常時カーソル移動用です。右トラックボール操作でマウスレイヤーが1秒間自動で有効になります。右内側キーからも開けます。Windowsでは戻る・進むがWindows用になります。
+- 右トラックボールは通常カーソル移動用です。右トラックボール操作でマウスレイヤーが1秒間自動で有効になります。右内側キーからも開けます。Windowsでは戻る・進むがWindows用になります。
+- マウス層で左右クリック（L＋−）を50ms以内に同時押しし、保持中は右ボールが縦スクロールになります。片方を離すとカーソル移動へ戻ります。単独クリックには最大50msの判定待ちが入ります。
+- 英数・かなコンボは入力切替後にオートマウス層を解除します。Mouseキー保持中は解除せず、離すと解除します。
+- NUM・NAV・FUNCTION・SYSTEMはマウス層より優先され、その間は英数・かなコンボを判定しません。
 - コンボ: `Q + W -> Esc (MAC_BASE, WIN_BASE)`
-- コンボ: `F + G -> Eisu (MAC_BASE, WIN_BASE)`
-- コンボ: `H + J -> Kana (MAC_BASE, WIN_BASE)`
+- コンボ: `F + G -> Eisu (base + mouse)`
+- コンボ: `H + J -> Kana (base + mouse)`
+- コンボ: `L + - -> Scroll (MAC_MOUSE, WIN_MOUSE)`
 
 ## MAC_BASE
 
@@ -44,7 +49,7 @@
 | --- | --- | --- | --- | --- | --- | --- | --- | --- | --- | --- | --- | --- |
 | Q | W | E | R | T |  |  |  | Y | U | I | O | P |
 | A | S | D | F | G |  |  |  | H | J | K | L | - |
-| Z / hold Shift | X | C | V | B | trns |  | Mouse / hold | N | M | , | . | / / hold RShift |
+| Z | X | C | V | B | Shift |  | Mouse / hold | N | M | , | . | / |
 | Option | Ctrl |  |  | Cmd | Space / hold Nav |  | Bspc / hold Num | Enter / hold Mac Fn |  |  | Tab | trns |
 
 ## WIN_BASE
@@ -53,8 +58,26 @@
 | --- | --- | --- | --- | --- | --- | --- | --- | --- | --- | --- | --- | --- |
 | Q | W | E | R | T |  |  |  | Y | U | I | O | P |
 | A | S | D | F | G |  |  |  | H | J | K | L | - |
-| Z / hold Shift | X | C | V | B | trns |  | Mouse / hold | N | M | , | . | / / hold RShift |
+| Z | X | C | V | B | Shift |  | Mouse / hold | N | M | , | . | / |
 | Alt | Win |  |  | Ctrl | Space / hold Nav |  | Bspc / hold Num | Enter / hold Win Fn |  |  | Tab | Right Ctrl |
+
+## MAC_MOUSE
+
+| x0 | x1 | x2 | x3 | x4 | x5 | x6 | x7 | x8 | x9 | x10 | x11 | x12 |
+| --- | --- | --- | --- | --- | --- | --- | --- | --- | --- | --- | --- | --- |
+| trns | trns | trns | trns | trns |  |  |  | trns | trns | trns | 戻る / Cmd+[ | 進む / Cmd+] |
+| trns | trns | trns | trns | trns |  |  |  | trns | trns | trns | LClick | RClick |
+| trns | trns | trns | trns | trns | trns |  | trns | trns | trns | trns | trns | trns |
+| trns | trns |  |  | trns | trns |  | trns | trns |  |  | trns | trns |
+
+## WIN_MOUSE
+
+| x0 | x1 | x2 | x3 | x4 | x5 | x6 | x7 | x8 | x9 | x10 | x11 | x12 |
+| --- | --- | --- | --- | --- | --- | --- | --- | --- | --- | --- | --- | --- |
+| trns | trns | trns | trns | trns |  |  |  | trns | trns | trns | 戻る / Alt+Left | 進む / Alt+Right |
+| trns | trns | trns | trns | trns |  |  |  | trns | trns | trns | LClick | RClick |
+| trns | trns | trns | trns | trns | trns |  | trns | trns | trns | trns | trns | trns |
+| trns | trns |  |  | trns | trns |  | trns | trns |  |  | trns | trns |
 
 ## NUM_SYS
 
@@ -80,7 +103,7 @@
 | --- | --- | --- | --- | --- | --- | --- | --- | --- | --- | --- | --- | --- |
 | 全画面 / Ctrl+Cmd+F | 行頭 / Cmd+Left | ウィンドウ一覧 / Ctrl+Up | 行末 / Cmd+Right | 最小化 / Cmd+M |  |  |  | trns | F1 | F2 | F3 | F4 |
 | 画面ロック / Cmd+Ctrl+Q | 前のデスクトップ / Ctrl+Left | タブ復元 / Shift+Cmd+T | 次のデスクトップ / Ctrl+Right | 範囲スクショ / Cmd+Shift+4 |  |  |  | trns | F5 | F6 | F7 | F8 |
-| アプリ終了 / Cmd+Q | アプリ内一覧 / Ctrl+Down | trns | trns | trns | trns |  | trns | trns | F9 | F10 | F11 | F12 |
+| trns | アプリ内一覧 / Ctrl+Down | trns | trns | アプリ終了 / hold 1s | trns |  | trns | trns | F9 | F10 | F11 | F12 |
 | trns | trns |  |  | trns | trns |  | trns | trns |  |  | trns | trns |
 
 ## WIN_FUNCTION
@@ -89,7 +112,7 @@
 | --- | --- | --- | --- | --- | --- | --- | --- | --- | --- | --- | --- | --- |
 | 最大化 / Win+Up | 行頭 / Home | ウィンドウ一覧 / Win+Tab | 行末 / End | 復元／最小化 / Win+Down |  |  |  | trns | F1 | F2 | F3 | F4 |
 | 画面ロック / Win+L | 前のデスクトップ / Ctrl+Win+Left | タブ復元 / Ctrl+Shift+T | 次のデスクトップ / Ctrl+Win+Right | 範囲スクショ / Win+Shift+S |  |  |  | trns | F5 | F6 | F7 | F8 |
-| 閉じる / Alt+F4 | trns | デスクトップ表示 / Win+D | trns | trns | trns |  | trns | trns | F9 | F10 | F11 | F12 |
+| trns | trns | デスクトップ表示 / Win+D | trns | 閉じる / hold 1s | trns |  | trns | trns | F9 | F10 | F11 | F12 |
 | trns | trns |  |  | trns | trns |  | trns | trns |  |  | trns | trns |
 
 ## SYSTEM
@@ -101,20 +124,11 @@
 | trns | trns | trns | trns | trns | trns |  | Boot | trns | trns | trns | BT Clr | BT All / hold 1.5s |
 | trns | trns |  |  | trns | trns |  | trns | Sys / hold |  |  | trns | trns |
 
-## MAC_MOUSE
+## SCROLL
 
 | x0 | x1 | x2 | x3 | x4 | x5 | x6 | x7 | x8 | x9 | x10 | x11 | x12 |
 | --- | --- | --- | --- | --- | --- | --- | --- | --- | --- | --- | --- | --- |
-| trns | trns | trns | trns | trns |  |  |  | trns | trns | trns | 戻る / Cmd+[ | 進む / Cmd+] |
-| trns | trns | trns | trns | trns |  |  |  | trns | trns | trns | LClick | RClick |
-| trns | trns | trns | trns | trns | trns |  | trns | trns | trns | trns | trns | trns |
-| trns | trns |  |  | trns | trns |  | trns | trns |  |  | trns | trns |
-
-## WIN_MOUSE
-
-| x0 | x1 | x2 | x3 | x4 | x5 | x6 | x7 | x8 | x9 | x10 | x11 | x12 |
-| --- | --- | --- | --- | --- | --- | --- | --- | --- | --- | --- | --- | --- |
-| trns | trns | trns | trns | trns |  |  |  | trns | trns | trns | 戻る / Alt+Left | 進む / Alt+Right |
-| trns | trns | trns | trns | trns |  |  |  | trns | trns | trns | LClick | RClick |
+| trns | trns | trns | trns | trns |  |  |  | trns | trns | trns | trns | trns |
+| trns | trns | trns | trns | trns |  |  |  | trns | trns | trns | trns | trns |
 | trns | trns | trns | trns | trns | trns |  | trns | trns | trns | trns | trns | trns |
 | trns | trns |  |  | trns | trns |  | trns | trns |  |  | trns | trns |

diff --git a/README.md b/README.md
@@ -10,14 +10,17 @@ Mac／Windowsとも端末側をUS配列に設定して使う構成です。NUM_S
 - Mac／Windows OPSは削除済み。必要なショートカットをMAC_FUNCTION／WIN_FUNCTIONの左側に配置しました。絵文字・全画面撮影・強制終了画面は配置していません。
 - NUM_SYSは左側に数字・四則演算・＝・小数点・カンマ、右側に対応する数字のShift記号を配置しています。左端は上から＝・小数点・カンマ、左下2キーは／・＊です。数字と＋・−の位置は維持しています。NUM保持中は左下2キーの修飾キーが／・＊に置き換わります。0は左下段の右端です。NUM_SYSの専用左右Shiftは外しました。
 - NAVIGATIONは左側に引用符・セミコロン・コロン・括弧・バッククォート・波線・バックスラッシュ・パイプ、右側に矢印・PgUp／PgDn・Home／End・Insert・Pauseを配置。Backspace位置がDelete、Enter位置を保持するとSYSTEMです。左内側には範囲選択用のShiftを残しています。
-- Enterを長押しするとMacではMAC_FUNCTION、WindowsではWIN_FUNCTION。F1〜F12は右手側の右4列×3行です。左内側はベースで無効、右内側は保持中だけマウスレイヤーを開きます。
+- Enterを長押しするとMacではMAC_FUNCTION、WindowsではWIN_FUNCTION。F1〜F12は右手側の右4列×3行です。左内側は専用左Shiftで、Zとスラッシュの長押しShiftは廃止しています。右内側は保持中だけマウスレイヤーを開きます。
 - SYMBOLSを削除しました。数字のShift記号以外の括弧・引用符などはNAVIGATION左側に配置しています。ベースの句読点は維持しています。
-- 英数はF＋G、かなはH＋J、EscはQ＋Wのコンボです（両OSのベースのみ、50ms判定）。
+- 英数はF＋G、かなはH＋J、EscはQ＋Wのコンボです（50ms判定。Escは両OSのベースのみ、英数・かなはベースとマウス層）。
 - Windows右下は右Ctrl、その左はTab。WindowsのSpace左隣は左Ctrl、元Tab位置の左下はAltです。Macも右下の端から2番目がTabで、元Tab位置はOptionです。MacのSpace左隣はCmdを維持しています。Mac右下は無効です。MacのEscはQ＋Wコンボで入力します。
-- FUNCTION左側はQ/W/E/R/T＝全画面（Windowsは最大化）／行頭／ウィンドウ一覧／行末／最小化（Windowsは復元・最小化）、A/S/D/F/G＝画面ロック／前のデスクトップ／タブ復元／次のデスクトップ／範囲スクショ。ZはMacでアプリ終了、Windowsでウィンドウを閉じる操作。MacのXはアプリ内一覧、WindowsのCはデスクトップ表示です。
-- マウス操作は右端2列。O＝戻る、P＝進む、L＝左クリック、−＝右クリック。右トラックボール操作で1秒間自動で有効になり、右内側キーからも開けます。戻る・進むはOSに合わせて自動切り替えします。その間O/P/L/−は文字入力になりません。カーソル移動は保持不要です。オートマウスはキー入力後200msの待機条件を維持し、O/P/L/−は解除対象から除外しています。
+- FUNCTION左側はQ/W/E/R/T＝全画面（Windowsは最大化）／行頭／ウィンドウ一覧／行末／最小化（Windowsは復元・最小化）、A/S/D/F/G＝画面ロック／前のデスクトップ／タブ復元／次のデスクトップ／範囲スクショ。B位置を1秒保持するとMacでアプリ終了、Windowsでウィンドウを閉じます。短押しは無効で、Z位置はベースの通常Zを透過します。MacのXはアプリ内一覧、WindowsのCはデスクトップ表示です。
+- マウス操作は右端2列。O＝戻る、P＝進む、L＝左クリック、−＝右クリック。右トラックボール操作で1秒間自動で有効になり、右内側キーからも開けます。戻る・進むはOSに合わせて自動切り替えします。その間O/P/L/−は文字入力になりません。カーソル移動は保持不要です。オートマウスはキー入力後200msの待機条件を維持し、O/P/L/−と専用Shift・Alt/Option・Ctrl・Cmd/Win・右Ctrl・Mouseキーは解除対象から除外しています。
+- F＋G／H＋Jは英数／かなを送信してオートマウス層を解除します。Mouseキーを保持中はロックを優先し、コンボや自動タイムアウトでは解除しません。Mouseキーを離すとマウス層を解除します。新たにボールを動かすと、200msの待機条件を満たした場合に再び自動で開きます。
+- NUM・NAV・FUNCTION・SYSTEMをマウス層より上に配置し、操作中の英数・かなコンボ誤発火を防ぎます。
+- マウス層で左クリック＋右クリック（L＋−）を50ms以内に同時押しし、両方を保持している間だけ右トラックボールが縦スクロールになります。片方を離すとカーソル移動に戻ります。内部のSCROLLレイヤーで切り替え、左右クリック自体は送信しません。判定時間を超えて押した場合は通常のクリックになります。単独クリックには最大50msの判定待ちが入ります。左ボールのスクロールとオートマウスは維持しています。スクロールの方向・速度・クリックの感触は実機未確認です。
 - SYSTEMの「BT All」は1.5秒長押しで全Bluetooth接続設定を消去します。「BT Clr」は単押しです。
-- 灰色は透過を示します。ただしベースの左内側、Mac右下の空きキーは無効です。
+- 灰色は透過を示します。ただしMacベース右下の空きキーは無効です。
 
 [![Pyuron キーマップ早見表](docs/keymap-cheatsheet.jpg)](docs/keymap-cheatsheet.jpg)
 
